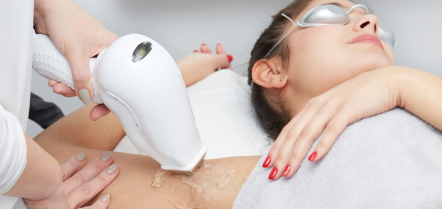
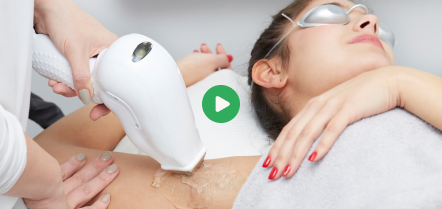
p

Changed region(s): [[0.4412, 0.4019, 0.5588, 0.6029]]

diff --git a/fulldetails.html b/fulldetails.html
@@ -423,13 +423,13 @@
             </figure>
             <figure class="swiper-slide py-10  relative   ">
                 <figcaption class=" absolute rounded-lg inset-x-0 top-4 md:px-10 px-4 py-3 bg-zap-SuperGreen w-fit mx-auto text-white lg:text-base md:text-sm text-xs">Step-2</figcaption>
-                <img src="temp-asset/full-details/Step-1.png" class="md:w-64 w-36 mx-auto" alt="">
+                <img src="temp-asset/full-details/Step-1.png" class="md:w-64 w-36 mx-auto"  alt="">
                 <p class="mt-6 md:text-sm text-xs md:w-52 mx-auto">
                   Pembersihan area yang akan dilakukan treatment 
                 </p>
             </figure>
             <figure class="swiper-slide py-10  relative   ">
-              <img src="temp-asset/full-details/STEP-3.png" class="md:w-64 w-36 mx-auto" alt="">
+              <video src="temp-asset/full-details/y2mate.com - MANFAAT LUAR BIASA DNA SALMON UNTUK KULIT WAJAHMU_1080p.mp4" controls class="rounded-lg md:w-64 w-36 mx-auto" poster="temp-asset/full-details/STEP-3.png"></video>
               <p class="mt-6 md:text-sm text-xs md:w-52 mx-auto">
                 Pemberian Formulated Gel untuk melindungi kulit dari energi panas penyinaran
               </p>
@@ -461,13 +461,13 @@
         <!-- Button End -->
       </div>
     </section>
-    <section class="Cara-kerja-treatment bg-zap-green lg:py-32 py-14">
-      <div class="title">
+    <section class="Cara-kerja-treatment md:bg-zap-green bg-zap-white lg:py-32 py-14">
+      <div class="title ">
         <h2>cara kerja treatment</h2>
         <hr>
       </div>
-        <div
-          class=" container lg:mt-14 mt-9  "
+      <div
+          class=" container lg:mt-14 mt-9 "
         >
           <div class="swiper  ">
             <div class="cara-kerjaTreatment-content">
@@ -500,7 +500,6 @@
                     <p class="text-center md:w-[270px] lg:text-base md:text-sm text-[10px] mx-auto">Setelah itu, pemberian formulated gel yang memberikan efek dingin, diaplikasikan ke kulit untuk memberikan rasa nyaman selama proses penyinaran berlangsung.</p>
                   </figure>
                 </div>
-                
             </div>
             <div class="swiper-button-prev caraKerja-button-prev">
               <img
@@ -517,9 +516,8 @@
               />
             </div>
             </div>
-
           </div>
-        </div>
+      </div>
     </section>
     <section class="tips-sebelum-sesudah" >
       <div class="container grid grid-cols-1 items-center md:gap-12 gap-6 ">
@@ -576,7 +574,7 @@
               <thead class="bg-zap-green">
                 <tr>
                   <th class="border border-slate-600 w-52 py-8"></th>
-                  <th class="border border-slate-600 w-80 py-8 bg-zap-white">
+                  <th class=" w-80 py-8 bg-zap-white border-x-zap-text-superGreen  translate-y-0 shadow-lg border-2 border-t-zap-text-superGreen">
                     <img src="temp-asset/statis-asset/Logo-Zap.svg" class="mx-auto lg:w-fit w-20" alt="">
                   </th>
                   <th class="border border-slate-600 w-80 py-8">shaving</th>
@@ -586,31 +584,31 @@
               <tbody class="bg-[#f2ffec]">
                 <tr>
                   <td class="border border-slate-700 px-6 py-2 h-14">tingkat rasa sakit</td>
-                  <td class="border border-slate-700 px-6 py-2 bg-zap-white">Nyaman, tidak sakit</td>
+                  <td class="border-x-zap-text-superGreen  shadow-lg border-2 px-6 py-2 bg-zap-white">Nyaman, tidak sakit</td>
                   <td class="border border-slate-700 px-6 py-2">tidak sakit</td>
                   <td class="border border-slate-700 px-6 py-2">sakit</td>
                 </tr>
                 <tr>
                   <td class="border border-slate-700 px-6 py-2 h-14">teknologi</td>
-                  <td class="border border-slate-700 px-6 py-2 bg-zap-white">Modern dan Professional</td>
+                  <td class="border-x-zap-text-superGreen  shadow-lg border-2 px-6 py-2 bg-zap-white">Modern dan Professional</td>
                   <td class="border border-slate-700 px-6 py-2 ">konvesional</td>
                   <td class="border border-slate-700 px-6 py-2 ">konvesional</td>
                 </tr>
                 <tr>
                   <td class="border border-slate-700 px-6 py-2 h-40">cara kerja</td>
-                  <td class="border border-slate-700 px-6 py-2 h-20 bg-zap-white">Menonaktifkan pertumbuhan akar rambut / bulu dengan metode penyinaran</td>
+                  <td class="border-x-zap-text-superGreen  shadow-lg border-2 px-6 py-2 h-20 bg-zap-white">Menonaktifkan pertumbuhan akar rambut / bulu dengan metode penyinaran</td>
                   <td class="border border-slate-700 px-6 py-2 h-20">memotong rambut / bulu di permukaan kulit</td>
                   <td class="border border-slate-700 px-6 py-2 h-20">mencabut paksa rambut/bulu hingga bawah permukaan kulit namun tidak sampai ke akar</td>
                 </tr>
                 <tr>
                   <td class="border border-slate-700 px-6 py-2 h-14">jangka waktu</td>
-                  <td class="border border-slate-700 px-6 py-2 bg-zap-white">Setelah >12x treatment bisa dilakukan 2-3 bulan sekali</td>
+                  <td class="border-x-zap-text-superGreen  shadow-lg border-2 px-6 py-2 bg-zap-white">Setelah >12x treatment bisa dilakukan 2-3 bulan sekali</td>
                   <td class="border border-slate-700 px-6 py-2">dibutuhkan pengulangan setiap rambut/bulu sudah tumbuh</td>
                   <td class="border border-slate-700 px-6 py-2">dibutuhkan pengulangan setiap rambut/bulu sudah tumbuh</td>
                 </tr>
                 <tr>
                   <td class="border border-slate-700 px-6 py-2 h-14">Hasil</td>
-                  <td class="border border-slate-700 px-6 py-2 bg-zap-white">Permanen</td>
+                  <td class="border-x-zap-text-superGreen  shadow-lg border-2 px-6 py-2 bg-zap-white border-b-zap-text-superGreen">Permanen</td>
                   <td class="border border-slate-700 px-6 py-2">sementara</td>
                   <td class="border border-slate-700 px-6 py-2">sementara</td>
                 </tr>
@@ -634,7 +632,7 @@
                   <img src="temp-asset/full-details/Before&After-2.png" class="w-full" alt="">
                 </figure>
                 <figure class="swiper-slide">  
-                  <img src="temp-asset/full-details/Before&After-3.png" class="w-full" alt="">
+                  <video src="temp-asset/full-details/y2mate.com - MANFAAT LUAR BIASA DNA SALMON UNTUK KULIT WAJAHMU_1080p.mp4" class="w-full lg:h-[235px] md:h-[190px] h-[185px]" poster="temp-asset/full-details/STEP-3.png" controls ></video>
                 </figure>
                 <figure class="swiper-slide">  
                   <img src="temp-asset/full-details/Before&After-4.png" class="w-full" alt="">
@@ -1414,6 +1412,7 @@
     });
   });
 </script>
+<script src="js/accordian.js"></script>
 <script src="js/nav.js"></script>
 <script src="js/floatingbtn.js"></script>
 <script src="js/booking.js"></script>

diff --git a/css/output.css b/css/output.css
@@ -440,7 +440,7 @@ section {
 
 @media (min-width: 768px) {
   section {
-    margin-top: 6rem;
+    margin-top: 9rem;
   }
 }
 
@@ -1092,6 +1092,10 @@ hr {
   height: 1250px;
 }
 
+.h-\[185px\] {
+  height: 185px;
+}
+
 .h-fit {
   height: -moz-fit-content;
   height: fit-content;
@@ -1229,6 +1233,11 @@ hr {
 
 .translate-x-0 {
   --tw-translate-x: 0px;
+  transform: translate(var(--tw-translate-x), var(--tw-translate-y)) rotate(var(--tw-rotate)) skewX(var(--tw-skew-x)) skewY(var(--tw-skew-y)) scaleX(var(--tw-scale-x)) scaleY(var(--tw-scale-y));
+}
+
+.translate-y-0 {
+  --tw-translate-y: 0px;
   transform: translate(var(--tw-translate-x), var(--tw-translate-y)) rotate(var(--tw-rotate)) skewX(var(--tw-skew-x)) skewY(var(--tw-skew-y)) scaleX(var(--tw-scale-x)) scaleY(var(--tw-scale-y));
 }
 
@@ -1502,6 +1511,22 @@ hr {
   border-color: rgb(49 171 92 / var(--tw-border-opacity));
 }
 
+.border-x-zap-text-superGreen {
+  --tw-border-opacity: 1;
+  border-left-color: rgb(49 171 92 / var(--tw-border-opacity));
+  border-right-color: rgb(49 171 92 / var(--tw-border-opacity));
+}
+
+.border-b-zap-text-superGreen {
+  --tw-border-opacity: 1;
+  border-bottom-color: rgb(49 171 92 / var(--tw-border-opacity));
+}
+
+.border-t-zap-text-superGreen {
+  --tw-border-opacity: 1;
+  border-top-color: rgb(49 171 92 / var(--tw-border-opacity));
+}
+
 .bg-\[\#f2ffec\] {
   --tw-bg-opacity: 1;
   background-color: rgb(242 255 236 / var(--tw-bg-opacity));
@@ -1697,6 +1722,16 @@ hr {
 .py-\[2px\] {
   padding-top: 2px;
   padding-bottom: 2px;
+}
+
+.py-12 {
+  padding-top: 3rem;
+  padding-bottom: 3rem;
+}
+
+.py-11 {
+  padding-top: 2.75rem;
+  padding-bottom: 2.75rem;
 }
 
 .pl-4 {
@@ -2617,6 +2652,10 @@ hr {
     height: 2rem;
   }
 
+  .md\:h-\[190px\] {
+    height: 190px;
+  }
+
   .md\:h-full {
     height: 100%;
   }
@@ -2742,6 +2781,11 @@ hr {
 
   .md\:gap-y-20 {
     row-gap: 5rem;
+  }
+
+  .md\:bg-zap-green {
+    --tw-bg-opacity: 1;
+    background-color: rgb(224 242 214 / var(--tw-bg-opacity));
   }
 
   .md\:p-0 {
@@ -3028,6 +3072,10 @@ hr {
 
   .lg\:h-80 {
     height: 20rem;
+  }
+
+  .lg\:h-\[235px\] {
+    height: 235px;
   }
 
   .lg\:h-\[350px\] {

diff --git a/js/swiper.js b/js/swiper.js
@@ -164,13 +164,12 @@ let TestimonialSwiper = new Swiper(".testimonial-content ", {
     grabCursor: true,
     // If we need pagination
     pagination: {
-  
       clickable: true,
       dynamicBullets: true,
     },
     autoplay : {
       delay : 4000,
-      disableOnInteraction: false,
+      disableOnInteraction: true,
   },
     // Navigation arrows
     navigation: {

diff --git a/css/input.css b/css/input.css
@@ -184,9 +184,6 @@
     @apply -bottom-[900px]
   }
 
- 
-
-
   .estore-btn {
     @apply md:w-fit w-10 lg:mx-0 mx-4;
   }
@@ -231,8 +228,10 @@
 
 @layer base {
   section {
-    @apply md:mt-24 mt-20;
+    @apply md:mt-36 mt-20;
   }
+
+ 
 
   .title {
     @apply text-center gap-4 md:text-sm text-xs flex flex-col ;
